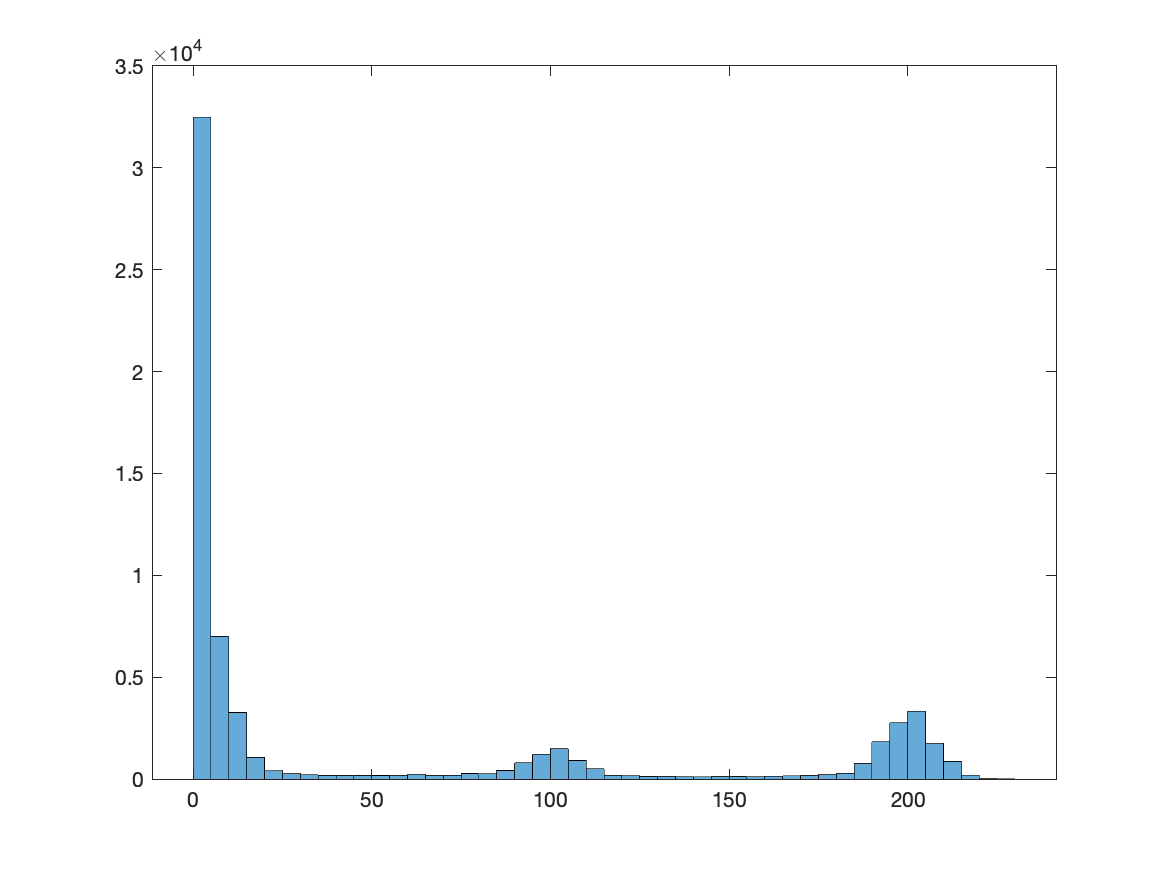
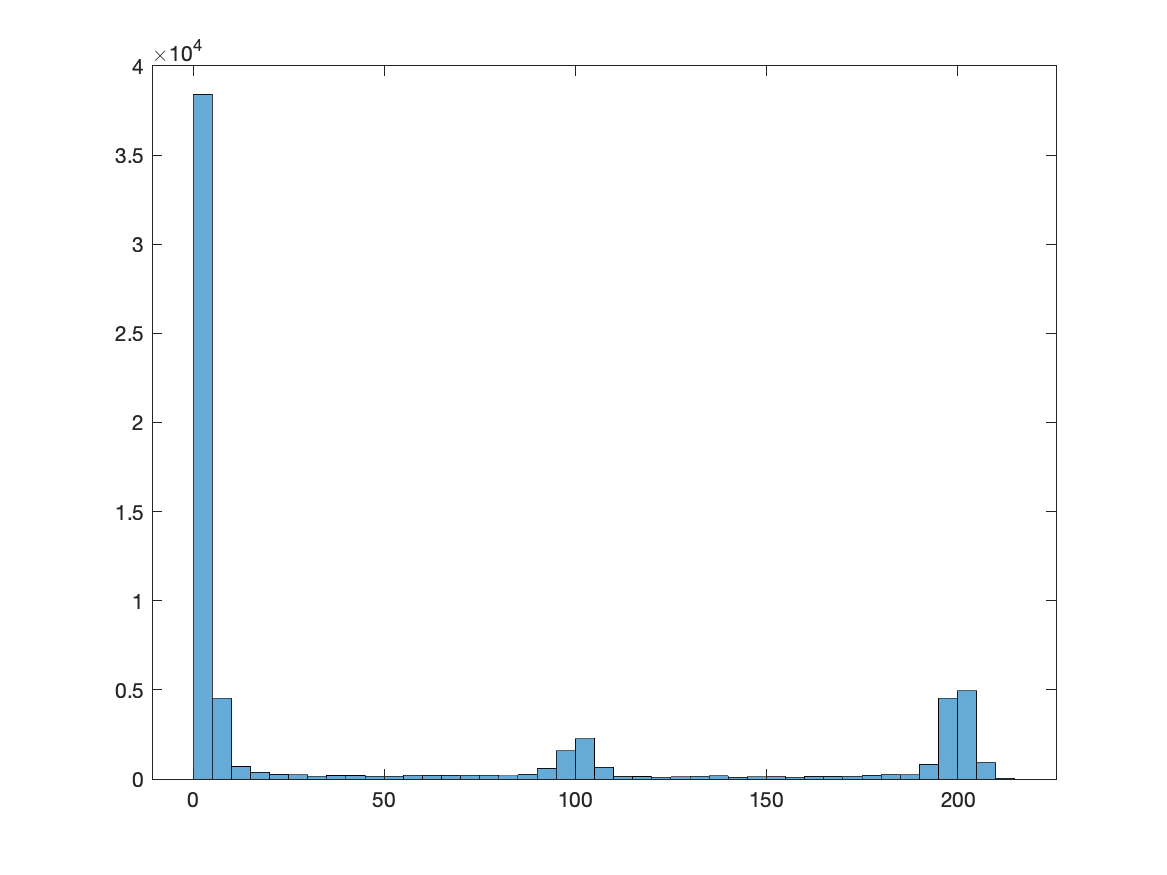
updated part1
Fixed iterative filter bug

diff --git a/part1.m b/part1.m
@@ -13,12 +13,12 @@ imwrite(mean_alpha_result, strcat("part1img/mean_alpha_", num2str(0), ".png"))
 imwrite(sigma_result, strcat("part1img/sigma_", num2str(0), ".png"))
 imwrite(snnm_result, strcat("part1img/snnm_", num2str(0), ".png"))
 
-for i = 1:5
-    mean_result = mean5x5(f);
-    median_result = median5x5(f);
-    mean_alpha_result = mean5x5_alpha(f, 0.25);
-    sigma_result = sigma5x5(f, 20);
-    snnm_result = snnm5x5(f);
+for i = 1:4
+    mean_result = mean5x5(mean_result);
+    median_result = median5x5(median_result);
+    mean_alpha_result = mean5x5_alpha(mean_alpha_result, 0.25);
+    sigma_result = sigma5x5(sigma_result, 20);
+    snnm_result = snnm5x5(snnm_result);
 
     hmean = histogram(mean_result);
     hmedian = histogram(median_result);
